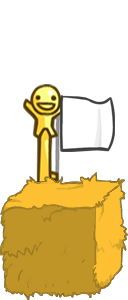
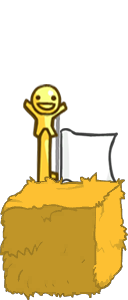
Aggiunta animazione CheckPoint, aggiungo metodo loop alla classe sprite animation, modifiche nel path del checkpoint block, da fixare logicamente il riposizionamento del player dopo la morte perchè si fa ancora la new

Changed region(s): [[0.4688, 0.3, 0.9375, 0.63]]

diff --git a/Platform2D_IGPE/src/gui/element/CheckPointBlockGraphic.java b/Platform2D_IGPE/src/gui/element/CheckPointBlockGraphic.java
@@ -2,20 +2,40 @@ package gui.element;
 
 import core.element.block.Block;
 import gui.ImageProvider;
+import gui.animation.SpriteAnimation;
+import javafx.scene.image.Image;
 
 public class CheckPointBlockGraphic extends AbstractGraphicBlock {
+	private final static String ANIMATION_PATH = "file:resources/images/animation/CheckPoint/CheckFrame1";
+	private final static String RISING_PATH = "file:resources/images/animation/CheckPoint/CheckFrame2";
+	private SpriteAnimation moving_flag;
+	private SpriteAnimation rising_flag;
+
+	private final static Image[] FLAG_MOVING = { new Image(ANIMATION_PATH + "/1.png"),
+			new Image(ANIMATION_PATH + "/2.png"), new Image(ANIMATION_PATH + "/3.png"),
+			new Image(ANIMATION_PATH + "/4.png"), new Image(ANIMATION_PATH + "/5.png"),
+			new Image(ANIMATION_PATH + "/6.png"), new Image(ANIMATION_PATH + "/7.png"),
+			new Image(ANIMATION_PATH + "/8.png"), new Image(ANIMATION_PATH + "/9.png"),
+			new Image(ANIMATION_PATH + "/10.png"), new Image(ANIMATION_PATH + "/11.png"),
+			new Image(ANIMATION_PATH + "/12.png"), };
 
 	public CheckPointBlockGraphic(Block logic) {
 		super(logic);
-		this.setImage(ImageProvider.getInstance().getSpecialBlock(""));
-		// TODO Auto-generated constructor stub
+		this.setImage(ImageProvider.getInstance().getSpecialBlock("CheckPointBlock"));
+		this.setFitHeight(getFitHeight() + (getFitHeight() * 1.5));
+		this.setFitWidth(getFitWidth() + getFitWidth() / 6);
+		this.setLayoutY(getLayoutY() - getFitHeight() / 1.7);
+		moving_flag = new SpriteAnimation(FLAG_MOVING, 200);
 	}
 
 	@Override
 	public void update() {
-		if(logicBlock.isPlayerInsideBlock()){
-			//se il player si trova sullo spawn block setto una booleana a true in maniera tare che se muoio riparto da li
+		if (logicBlock.isAnimated()){
+			this.setImage(moving_flag.nextFrame());
+				if(moving_flag.isFinished())
+				moving_flag.setLoop(6);
 		}
+
 	}
 
 }

diff --git a/Platform2D_IGPE/src/gui/panel/singlePlayer/SinglePlayerPane.java b/Platform2D_IGPE/src/gui/panel/singlePlayer/SinglePlayerPane.java
@@ -158,7 +158,7 @@ public class SinglePlayerPane extends Pane implements UpdatablePane {
 		updateCamera();
 		updateBlocks();
 //		player.relocate(manager.getPlayer().getX(), manager.getPlayer().getY());
-		System.out.println("player in " + manager.getPlayer().getX() + "  " + manager.getPlayer().getY());
+//		System.out.println("player in " + manager.getPlayer().getX() + "  " + manager.getPlayer().getY());
 		drawer.draw();
 
 	}
@@ -182,10 +182,10 @@ public class SinglePlayerPane extends Pane implements UpdatablePane {
 							- cameraDistance.getY() + ((manager.getPlayer().getY() % 2 == 0) ? 0.1 : -0.1));
 		}*/
 		scene.getCamera().setLayoutX(manager.getPlayer().getX() - 800);
-		scene.getCamera().setLayoutY(manager.getPlayer().getY() - 500);
+		scene.getCamera().setLayoutY(manager.getPlayer().getY() - 1000);
 		//scene.getCamera().setTranslateX(cameraPosition[0]);
 		//scene.getCamera().setTranslateY(cameraPosition[1]);
-		System.out.println(scene.getCamera().getTranslateX() + "   "  + scene.getCamera().getTranslateY());
+//		System.out.println(scene.getCamera().getTranslateX() + "   "  + scene.getCamera().getTranslateY());
 //		scene.getCamera().setTranslateZ();
 //		System.out.println(((PerspectiveCamera)scene.getCamera()).getFieldOfView());
 	}

diff --git a/Platform2D_IGPE/src/core/element/block/CheckPointBlock.java b/Platform2D_IGPE/src/core/element/block/CheckPointBlock.java
@@ -4,17 +4,36 @@ import core.element.Position;
 import core.element.character.Character;
 
 public class CheckPointBlock extends AbstractBlock {
+private boolean collided = false;
+
+
+
 
 	public CheckPointBlock(Position position) {
 		super(position, 8);
 	}
 
+	
+	public boolean isCollided (){
+		return collided;
+	}
+	
 	@Override
 	public void setPlayerState(Character c) {
-		if (c.getY() + c.getHeight() < this.getY())
-			c.setLastSpawnPoint(this.getX(), this.getY() - this.getHEIGHT());
-			
-		
+		if (c.getY() + c.getHeight() < this.getY()) {
+			collided = true;
+			c.setLastSpawnPoint(this.getX() + c.getWidth()/2, this.getY() - this.getHEIGHT());
+//			System.out.println("posizioni dal checkpoint block: " + this.getX() + " " + this.getY());
 		}
-	}
 
+	}
+	
+	
+	
+	@Override
+		public void update() {
+			if( isCollided())
+				animated = true;
+			super.update();
+		}
+}

diff --git a/Platform2D_IGPE/src/core/element/block/ExplosiveBlock.java b/Platform2D_IGPE/src/core/element/block/ExplosiveBlock.java
@@ -38,7 +38,7 @@ public class ExplosiveBlock extends AbstractBlock {
 				explosion = true;
 				animated = true;
 			}
-			if (!this.isPlayerInsideBlock() && explosion && current - lastMillis >= 3000 ) {
+			if (!isPlayerInsideBlock() && !this.isPlayerInsideBlock() && explosion && current - lastMillis >= 3000 ) {
 				System.out.println("rigenerato");
 				explosion = false;
 				beginExplosion = false;

diff --git a/Platform2D_IGPE/src/gui/animation/SpriteAnimation.java b/Platform2D_IGPE/src/gui/animation/SpriteAnimation.java
@@ -19,6 +19,11 @@ public class SpriteAnimation {
 		this.numberFrames = frames.length;
 	}
 
+	
+	public void setLoop(int index){
+		currentIndex = index;
+	}
+	
 	public void restartAnimation() {
 		currentIndex = 0;
 	}

diff --git a/Platform2D_IGPE/src/core/gameManagers/PlayManager.java b/Platform2D_IGPE/src/core/gameManagers/PlayManager.java
@@ -68,6 +68,7 @@ public class PlayManager {
 			if (!player.isDead()) {
 				player.update();
 			} else {
+				System.out.println("sei morto");
 				player.respawn();
 			}
 		}
